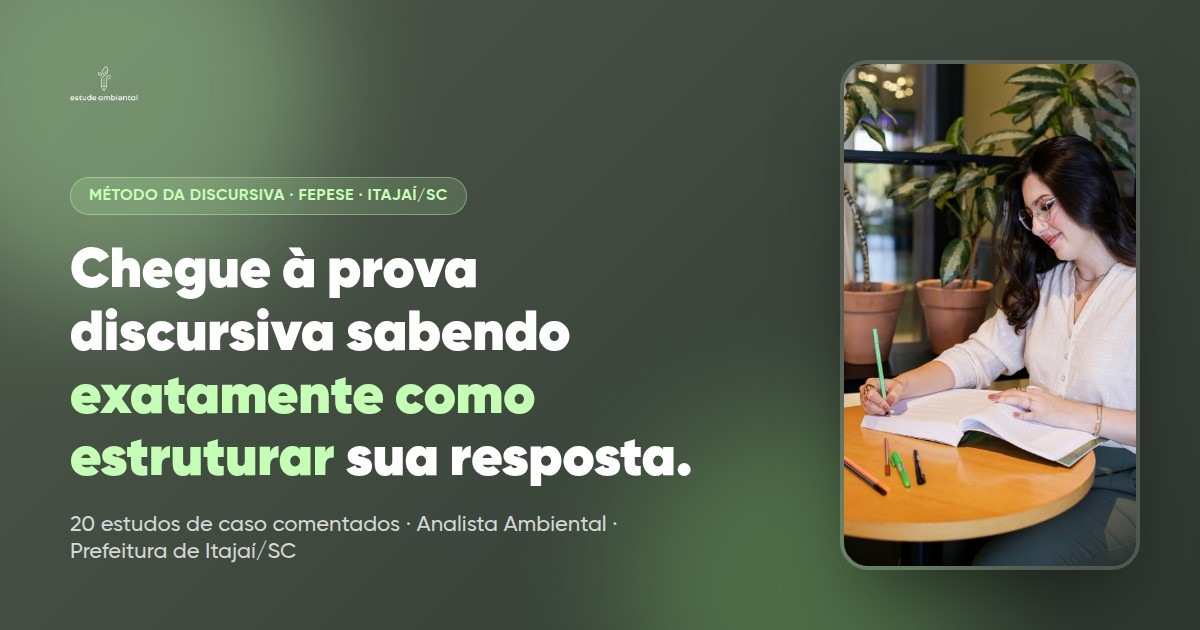
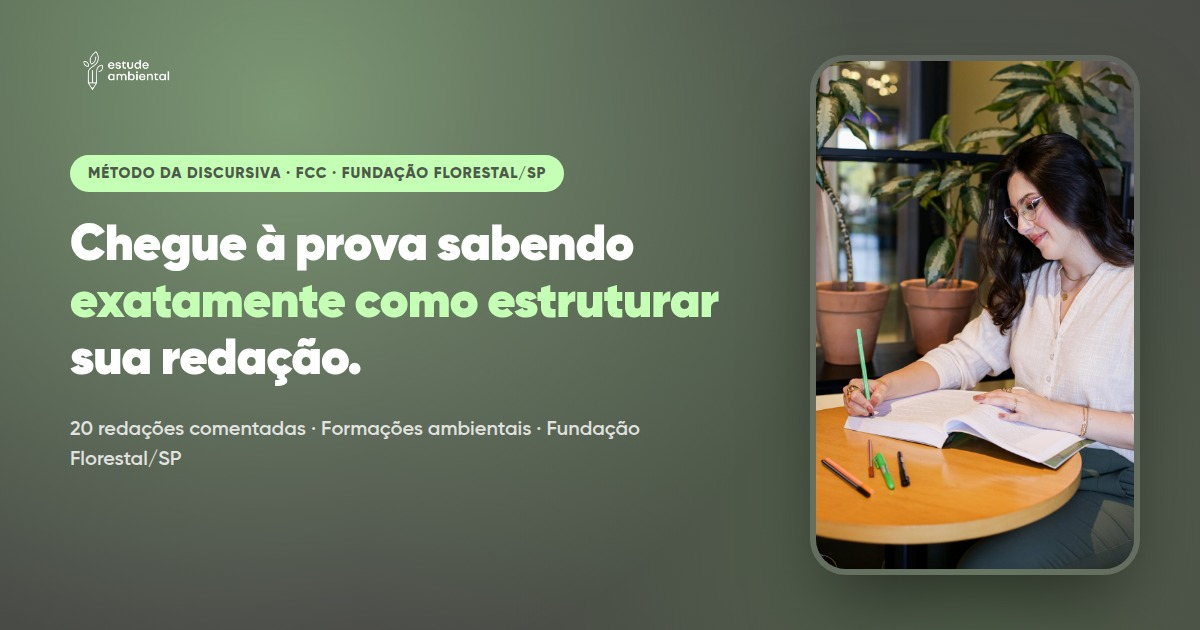
Finaliza pagina de vendas do Metodo da Discursiva FCC
- Adiciona indice por tema e espelho comentado ao carrossel de
  paginas reais (Material 2), agora com 8 slides
- Gera og-image.jpg proprio da FCC/Fundacao Florestal-SP (o antigo
  ainda trazia "FEPESE - Itajai/SC", herdado da duplicacao da pagina)
- Remove arquivos de imagem remanescentes do FEPESE que ficaram na
  pasta apos a duplicacao inicial e nao sao usados nesta pagina

diff --git a/vendas/metodo-discursiva-fcc-fundacao-florestal-sp/index.html b/vendas/metodo-discursiva-fcc-fundacao-florestal-sp/index.html
@@ -704,6 +704,24 @@ section{ padding: var(--section-y) 0; }
 .mockup-carousel.six-slides img:nth-child(5){ animation-delay: calc(var(--carousel-duration) * -4 / 6); }
 .mockup-carousel.six-slides img:nth-child(6){ animation-delay: calc(var(--carousel-duration) * -5 / 6); }
 
+@keyframes mockupFadeEight{
+  0%{ opacity:0; }
+  1.5%{ opacity:1; }
+  10.5%{ opacity:1; }
+  12.5%{ opacity:0; }
+  100%{ opacity:0; }
+}
+.mockup-carousel.eight-slides{ --carousel-duration: 21s; }
+.mockup-carousel.eight-slides img{ animation-name: mockupFadeEight; }
+.mockup-carousel.eight-slides img:nth-child(1){ animation-delay: calc(var(--carousel-duration) * -0 / 8); }
+.mockup-carousel.eight-slides img:nth-child(2){ animation-delay: calc(var(--carousel-duration) * -1 / 8); }
+.mockup-carousel.eight-slides img:nth-child(3){ animation-delay: calc(var(--carousel-duration) * -2 / 8); }
+.mockup-carousel.eight-slides img:nth-child(4){ animation-delay: calc(var(--carousel-duration) * -3 / 8); }
+.mockup-carousel.eight-slides img:nth-child(5){ animation-delay: calc(var(--carousel-duration) * -4 / 8); }
+.mockup-carousel.eight-slides img:nth-child(6){ animation-delay: calc(var(--carousel-duration) * -5 / 8); }
+.mockup-carousel.eight-slides img:nth-child(7){ animation-delay: calc(var(--carousel-duration) * -6 / 8); }
+.mockup-carousel.eight-slides img:nth-child(8){ animation-delay: calc(var(--carousel-duration) * -7 / 8); }
+
 @keyframes mockupFadeThree{
   0%{ opacity:0; }
   3%{ opacity:1; }
@@ -1315,14 +1333,15 @@ footer{
     <div class="split-visual reveal" style="--reveal-delay:.15s">
       <!-- MOCKUP: páginas reais dos materiais, alternando -->
       <div class="mockup-card mockup-card-covers">
-        <div class="mockup-carousel six-slides">
-          <!-- PLACEHOLDER: substituir por imagens reais do material FCC / Fundação Florestal-SP -->
+        <div class="mockup-carousel eight-slides">
           <img src="./assets/img/material-1-capa.jpg" alt="Capa do Material 1: Método da Discursiva FCC" loading="lazy" />
           <img src="./assets/img/material-1-sumario.jpg" alt="Sumário do Material 1" loading="lazy" />
           <img src="./assets/img/material-1-teoria.jpg" alt="Página de teoria do Material 1" loading="lazy" />
           <img src="./assets/img/material-2-capa.jpg" alt="Capa do Material 2: 20 Redações Comentadas" loading="lazy" />
+          <img src="./assets/img/material-2-sumario.jpg" alt="Índice por tema das 20 redações comentadas" loading="lazy" />
           <img src="./assets/img/caso-01-situacao.jpg" alt="Página real do Material 2: proposta de redação 01" loading="lazy" />
           <img src="./assets/img/caso-01-resposta-modelo.jpg" alt="Página real do Material 2: redação-modelo comentada 01" loading="lazy" />
+          <img src="./assets/img/caso-01-espelho.jpg" alt="Página real do Material 2: espelho comentado da redação 01" loading="lazy" />
         </div>
       </div>
       <p class="mockup-caption">Páginas reais dos materiais</p>
